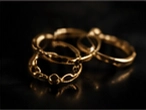
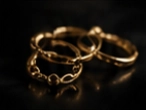
update: ui

diff --git a/src/styles.css b/src/styles.css
@@ -74,7 +74,7 @@ img {
   grid-template-columns: 14rem 1fr 8rem;
   align-items: center;
   gap: 1.25rem;
-  width: min(100% - 7.5rem, 1220px);
+  width: min(100% - 7.5rem, 1440px);
   margin: 0 auto;
   padding: 2.05rem 0;
 }
@@ -97,6 +97,10 @@ img {
   color: var(--gold-light);
   font-size: 1.1rem;
   line-height: 1;
+}
+
+.brand img {
+  max-width: 9rem;
 }
 
 .nav-links {
@@ -684,15 +688,16 @@ h2 {
 
 .lookbook-grid {
   display: grid;
-  grid-template-columns: 1.08fr 1.08fr 1.08fr 1.08fr 1.08fr;
+  grid-template-columns: repeat(5, minmax(0, 1fr));
+  grid-template-rows: repeat(2, minmax(8.5rem, 1fr));
   gap: 0.65rem;
   text-align: left;
 }
 
+/* Base card style */
 .lookbook-grid figure {
   position: relative;
   overflow: hidden;
-  min-height: 15rem;
   margin: 0;
   border: 1px solid var(--line-soft);
   border-radius: 4px;
@@ -700,42 +705,60 @@ h2 {
   animation: lookbookReveal 520ms cubic-bezier(0.19, 1, 0.22, 1) both;
 }
 
-.lookbook-grid figure:nth-child(3) {
-  min-height: 17.8rem;
+/* Tall columns */
+.lookbook-grid figure:nth-child(1) {
+  grid-column: 1;
+  grid-row: 1 / 3;
 }
 
 .lookbook-grid figure:nth-child(2) {
+  grid-column: 2;
+  grid-row: 1 / 3;
   animation-delay: 60ms;
 }
 
 .lookbook-grid figure:nth-child(3) {
+  grid-column: 3;
+  grid-row: 1 / 3;
   animation-delay: 120ms;
 }
 
+/* Fourth column split into two */
 .lookbook-grid figure:nth-child(4) {
+  grid-column: 4;
+  grid-row: 1;
   animation-delay: 180ms;
 }
 
 .lookbook-grid figure:nth-child(5) {
+  grid-column: 4;
+  grid-row: 2;
   animation-delay: 240ms;
 }
 
+/* Last tall column */
 .lookbook-grid figure:nth-child(6) {
+  grid-column: 5;
+  grid-row: 1 / 3;
   animation-delay: 300ms;
 }
 
+/* Image */
 .lookbook-grid img {
+  display: block;
   width: 100%;
   height: 100%;
   object-fit: cover;
   transition: transform 520ms ease, filter 520ms ease;
 }
 
+/* Caption */
 .lookbook-grid figcaption {
   position: absolute;
   left: 1rem;
   right: 1rem;
   bottom: 0.9rem;
+  z-index: 2;
   color: var(--text);
   font-size: 0.72rem;
   font-weight: 700;
@@ -746,15 +769,19 @@ h2 {
   transition: opacity 240ms ease, transform 240ms ease;
 }
 
+/* Dark overlay */
 .lookbook-grid figure::after {
   position: absolute;
   inset: 0;
+  z-index: 1;
   content: "";
   background: linear-gradient(180deg, transparent 45%, rgba(0, 0, 0, 0.85));
   opacity: 0;
   transition: opacity 240ms ease;
+  pointer-events: none;
 }
 
+/* Original hover effects */
 .lookbook-grid figure:hover img {
   filter: saturate(1.05) contrast(1.08);
   transform: scale(1.06);
@@ -1202,6 +1229,10 @@ h2 {
     grid-template-columns: 1fr 1fr;
   }
 
+  .story-image {
+    margin: 0 1rem;
+  }
+
   .lookbook-grid {
     grid-template-columns: repeat(6, 1fr);
   }
@@ -1228,6 +1259,10 @@ h2 {
 
   .brand-mark {
     margin-left: 2.4rem;
+  }
+
+  .brand img {
+    max-width: 7rem;
   }
 
   .header-actions {
@@ -1265,12 +1300,14 @@ h2 {
   }
 
   .scroll-cue {
-    left: 1rem;
-    bottom: 4.95rem;
+    /* left: 1rem;
+    bottom: 4.95rem; */
+    display: none;
   }
 
   .hero-controls {
-    right: 1rem;
+    /* right: 1rem; */
+    right: unset;
     bottom: 1.25rem;
     gap: 0.6rem;
   }
@@ -1304,7 +1341,7 @@ h2 {
   }
 
   .tabs {
-    justify-content: flex-start;
+    justify-content: center;
     overflow-x: auto;
     gap: 1.7rem;
   }
@@ -1319,13 +1356,19 @@ h2 {
   }
 
   .lookbook-grid {
-    grid-template-columns: 1fr;
+    grid-template-columns: repeat(2, minmax(0, 1fr));
+    grid-template-rows: auto;
   }
 
   .lookbook-grid figure,
+  .lookbook-grid figure:nth-child(1),
+  .lookbook-grid figure:nth-child(2),
+  .lookbook-grid figure:nth-child(3),
   .lookbook-grid figure:nth-child(4),
-  .lookbook-grid figure:nth-child(5) {
+  .lookbook-grid figure:nth-child(5),
+  .lookbook-grid figure:nth-child(6) {
     grid-column: auto;
+    grid-row: auto;
     min-height: 19rem;
   }
 

diff --git a/index.html b/index.html
@@ -3,11 +3,49 @@
   <head>
     <meta charset="UTF-8" />
     <meta name="viewport" content="width=device-width, initial-scale=1.0" />
+
+    <!-- Primary SEO -->
+    <title>NOIR ECLAT | Luxury Perfume & Fine Jewelry</title>
     <meta
       name="description"
-      content="NOIR ECLAT luxury perfume and fine jewelry landing page."
+      content="Discover NOIR ECLAT, a luxury perfume and fine jewelry brand crafted with timeless elegance, rare materials, and refined sophistication."
     />
-    <title>NOIR ECLAT</title>
+    <meta
+      name="keywords"
+      content="luxury perfume, fine jewelry, gold jewelry, luxury jewelry, designer perfume, NOIR ECLAT"
+    />
+    <meta name="author" content="NOIR ECLAT" />
+    <meta name="robots" content="index, follow" />
+
+    <!-- Canonical URL -->
+    <link rel="canonical" href="https://www.noireclat.com/" />
+
+    <!-- Open Graph / Facebook / LinkedIn -->
+    <meta property="og:type" content="website" />
+    <meta property="og:title" content="NOIR ECLAT | Luxury Perfume & Fine Jewelry" />
+    <meta
+      property="og:description"
+      content="Explore luxury perfume and fine jewelry designed with timeless craftsmanship, rare materials, and elegant detail."
+    />
+    <meta property="og:url" content="https://www.noireclat.com/" />
+    <meta property="og:site_name" content="NOIR ECLAT" />
+    <meta property="og:image" content="https://www.noireclat.com/assets/og-image.jpg" />
+
+    <!-- Twitter / X -->
+    <meta name="twitter:card" content="summary_large_image" />
+    <meta name="twitter:title" content="NOIR ECLAT | Luxury Perfume & Fine Jewelry" />
+    <meta
+      name="twitter:description"
+      content="Luxury perfume and fine jewelry crafted for those who value timeless elegance and rare detail."
+    />
+    <meta name="twitter:image" content="https://www.noireclat.com/assets/og-image.jpg" />
+
+    <!-- Favicon -->
+    <link rel="icon" type="image/png" href="/assets/favicon.png" />
+    <link rel="apple-touch-icon" href="/assets/apple-touch-icon.png" />
+
+    <!-- Theme Color -->
+    <meta name="theme-color" content="#080808" />
   </head>
   <body>
     <div id="root"></div>

diff --git a/src/App.jsx b/src/App.jsx
@@ -65,12 +65,12 @@ const lookbook = [
   },
   {
     image: "/assets/lookbook/fine-jewelry-details-1.webp",
-    label: "Fine jewelry details 1",
+    label: "Fine jewelry earrings",
     category: "Jewelry",
   },
   {
     image: "/assets/lookbook/fine-jewelry-details-2.webp",
-    label: "Fine jewelry details 2",
+    label: "Gorgeous bracelet",
     category: "Jewelry",
   },
   {
@@ -109,8 +109,9 @@ function Header() {
   return (
     <header className={`site-header ${isMenuOpen ? "menu-open" : ""}`}>
       <a className="brand" href="#top" aria-label="NOIR ECLAT home" onClick={closeMenu}>
-        <span className="brand-mark">◇</span>
-        <span>NOIR ECLAT</span>
+        {/* <span className="brand-mark">◇</span>
+        <span>NOIR ECLAT</span> */}
+        <img src="/assets/logo.png" alt="" />
       </a>
       <nav className="nav-links" aria-label="Primary navigation">
         {navItems.map((item) => (
@@ -184,7 +185,7 @@ function Story() {
           precision, using rare materials and timeless techniques passed down
           through generations. We don't follow trends. We create timeless pieces of individuality.
         </p>
-        <a className="outline-button" href="#journal">
+        <a className="outline-button" href="#our-story">
           Discover Our Story <Icon name="arrow" />
         </a>
       </div>
@@ -251,22 +252,6 @@ function SocialProof() {
       <div className="testimonial">
         <div className="testimonial-header">
           <p className="eyebrow">What Our Clients Say</p>
-          {/* <div className="testimonial-controls" aria-label="Testimonial controls">
-            <button
-              type="button"
-              aria-label="Previous testimonial"
-              onClick={() => goToTestimonial(activeTestimonial - 1)}
-            >
-              <Icon name="left" />
-            </button>
-            <button
-              type="button"
-              aria-label="Next testimonial"
-              onClick={() => goToTestimonial(activeTestimonial + 1)}
-            >
-              <Icon name="arrow" />
-            </button>
-          </div> */}
         </div>
         <div className="testimonial-quote">
           <img src="/assets/icon-quote.png" alt="quote" />
@@ -299,24 +284,25 @@ function Footer() {
       <div className="footer-grid">
         <div>
           <a className="brand footer-brand" href="#top">
-            <span className="brand-mark">◇</span>
-            <span>NOIR ECLAT</span>
+            {/* <span className="brand-mark">◇</span>
+            <span>NOIR ECLAT</span> */}
+            <img src="/assets/logo.png" alt="" />
           </a>
           <p>
             Timeless elegance. Rare craftsmanship. Made for those who notice
             details others overlook.
           </p>
           <div className="socials" aria-label="Social links">
-            <a href="#contact" aria-label="Instagram">
+            <a href="https://www.instagram.com" aria-label="Instagram">
               <Icon name="instagram" />
             </a>
-            <a href="#contact" aria-label="Facebook">
+            <a href="https://www.facebook.com" aria-label="Facebook">
               <Icon name="facebook" />
             </a>
-            <a href="#contact" aria-label="Pinterest">
+            <a href="https://www.pinterest.com" aria-label="Pinterest">
               <Icon name="pinterest" />
             </a>
-            <a href="#contact" aria-label="TikTok">
+            <a href="https://www.tiktok.com" aria-label="TikTok">
               <Icon name="tiktok" />
             </a>
           </div>